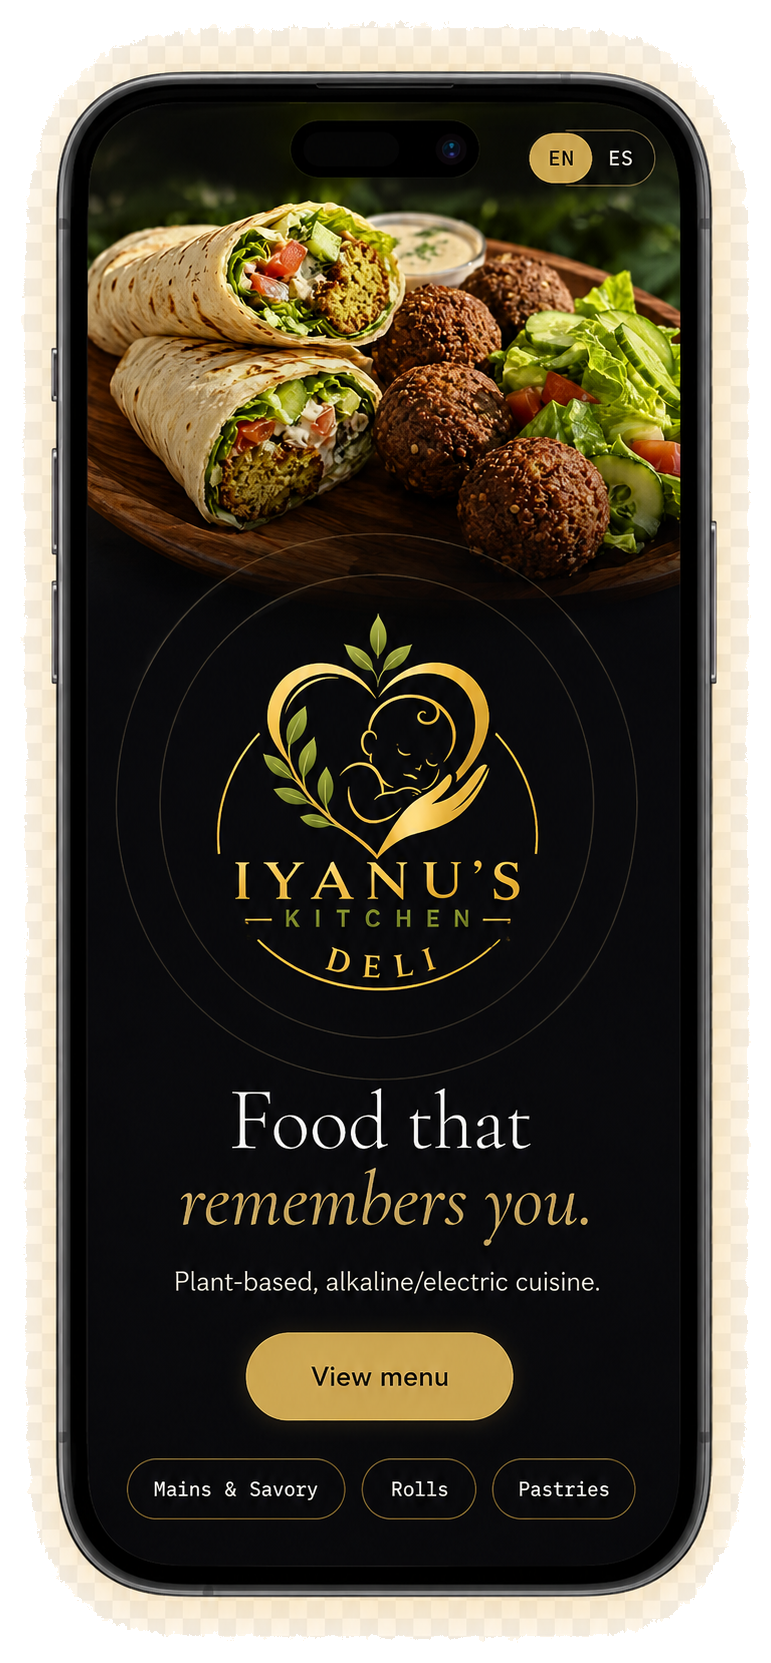
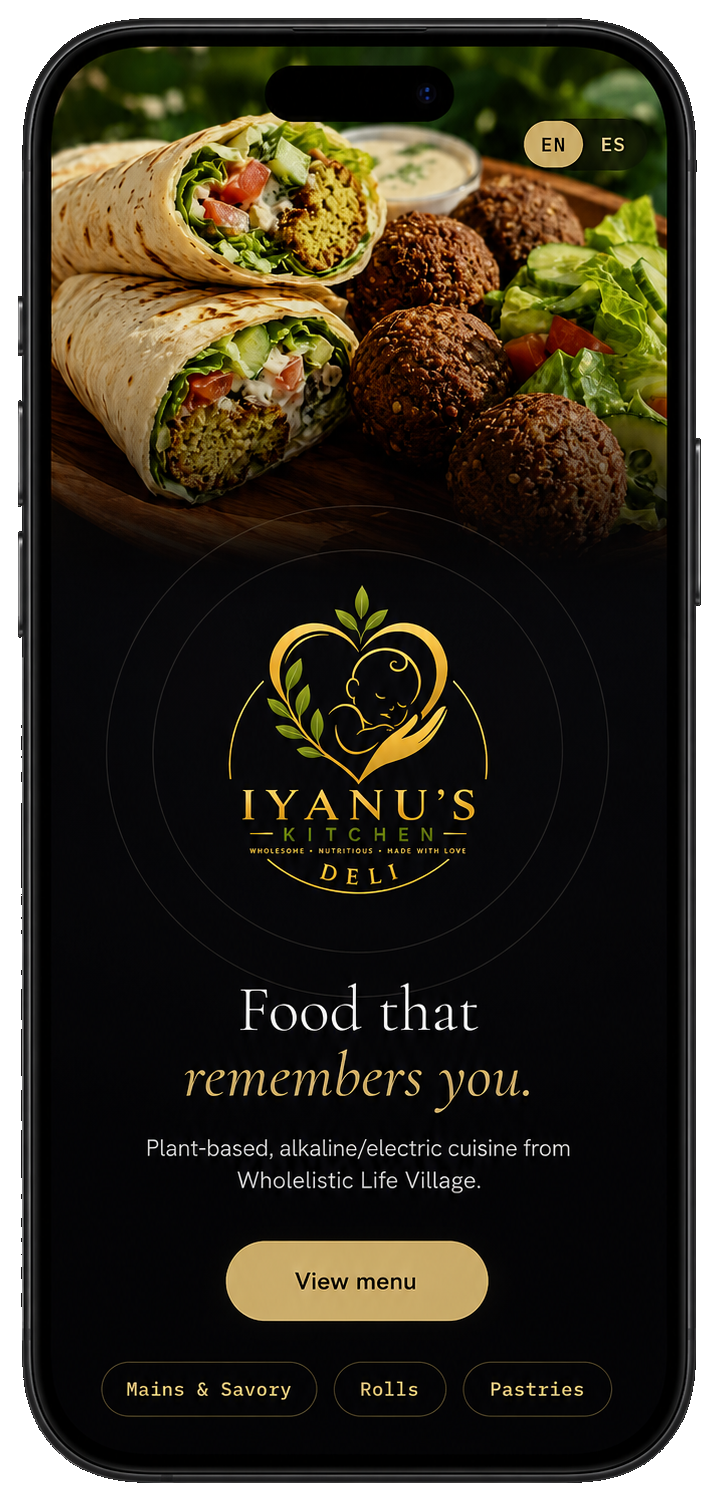
Split Taxi Directo into separate driver/passenger mockups
Taxi Directo now shows two distinct labeled screens (Driver,
Passenger) each with its own mockup image and drift phase, instead
of one combined image. Also swaps in an updated Iyānu's Kitchen
storefront mockup with a new aspect ratio, and removes the now-unused
combined taxi-driver-passenger.png.

diff --git a/src/components/BuildsShowcase.tsx b/src/components/BuildsShowcase.tsx
@@ -31,7 +31,7 @@ const BUILDS: BuildEntry[] = [
       {
         src: 'https://order.wholelisticlyfe.com',
         image: '/images/builds/kitchen-storefront.png',
-        aspect: '771 / 1663',
+        aspect: '719 / 1501',
         width: 200,
         phase: 0,
       },
@@ -49,11 +49,20 @@ const BUILDS: BuildEntry[] = [
     ],
     screens: [
       {
-        src: 'https://meridian-taxi.vercel.app',
-        image: '/images/builds/taxi-driver-passenger.png',
-        aspect: '1350 / 1023',
-        width: 400,
+        src: 'https://meridian-taxi.vercel.app/driver.html',
+        image: '/images/builds/taxi-driver.png',
+        aspect: '660 / 1311',
+        width: 190,
+        label: 'Driver',
         phase: 0,
+      },
+      {
+        src: 'https://meridian-taxi.vercel.app/passenger.html',
+        image: '/images/builds/taxi-passenger.png',
+        aspect: '655 / 1309',
+        width: 190,
+        label: 'Passenger',
+        phase: Math.PI,
       },
     ],
   },
